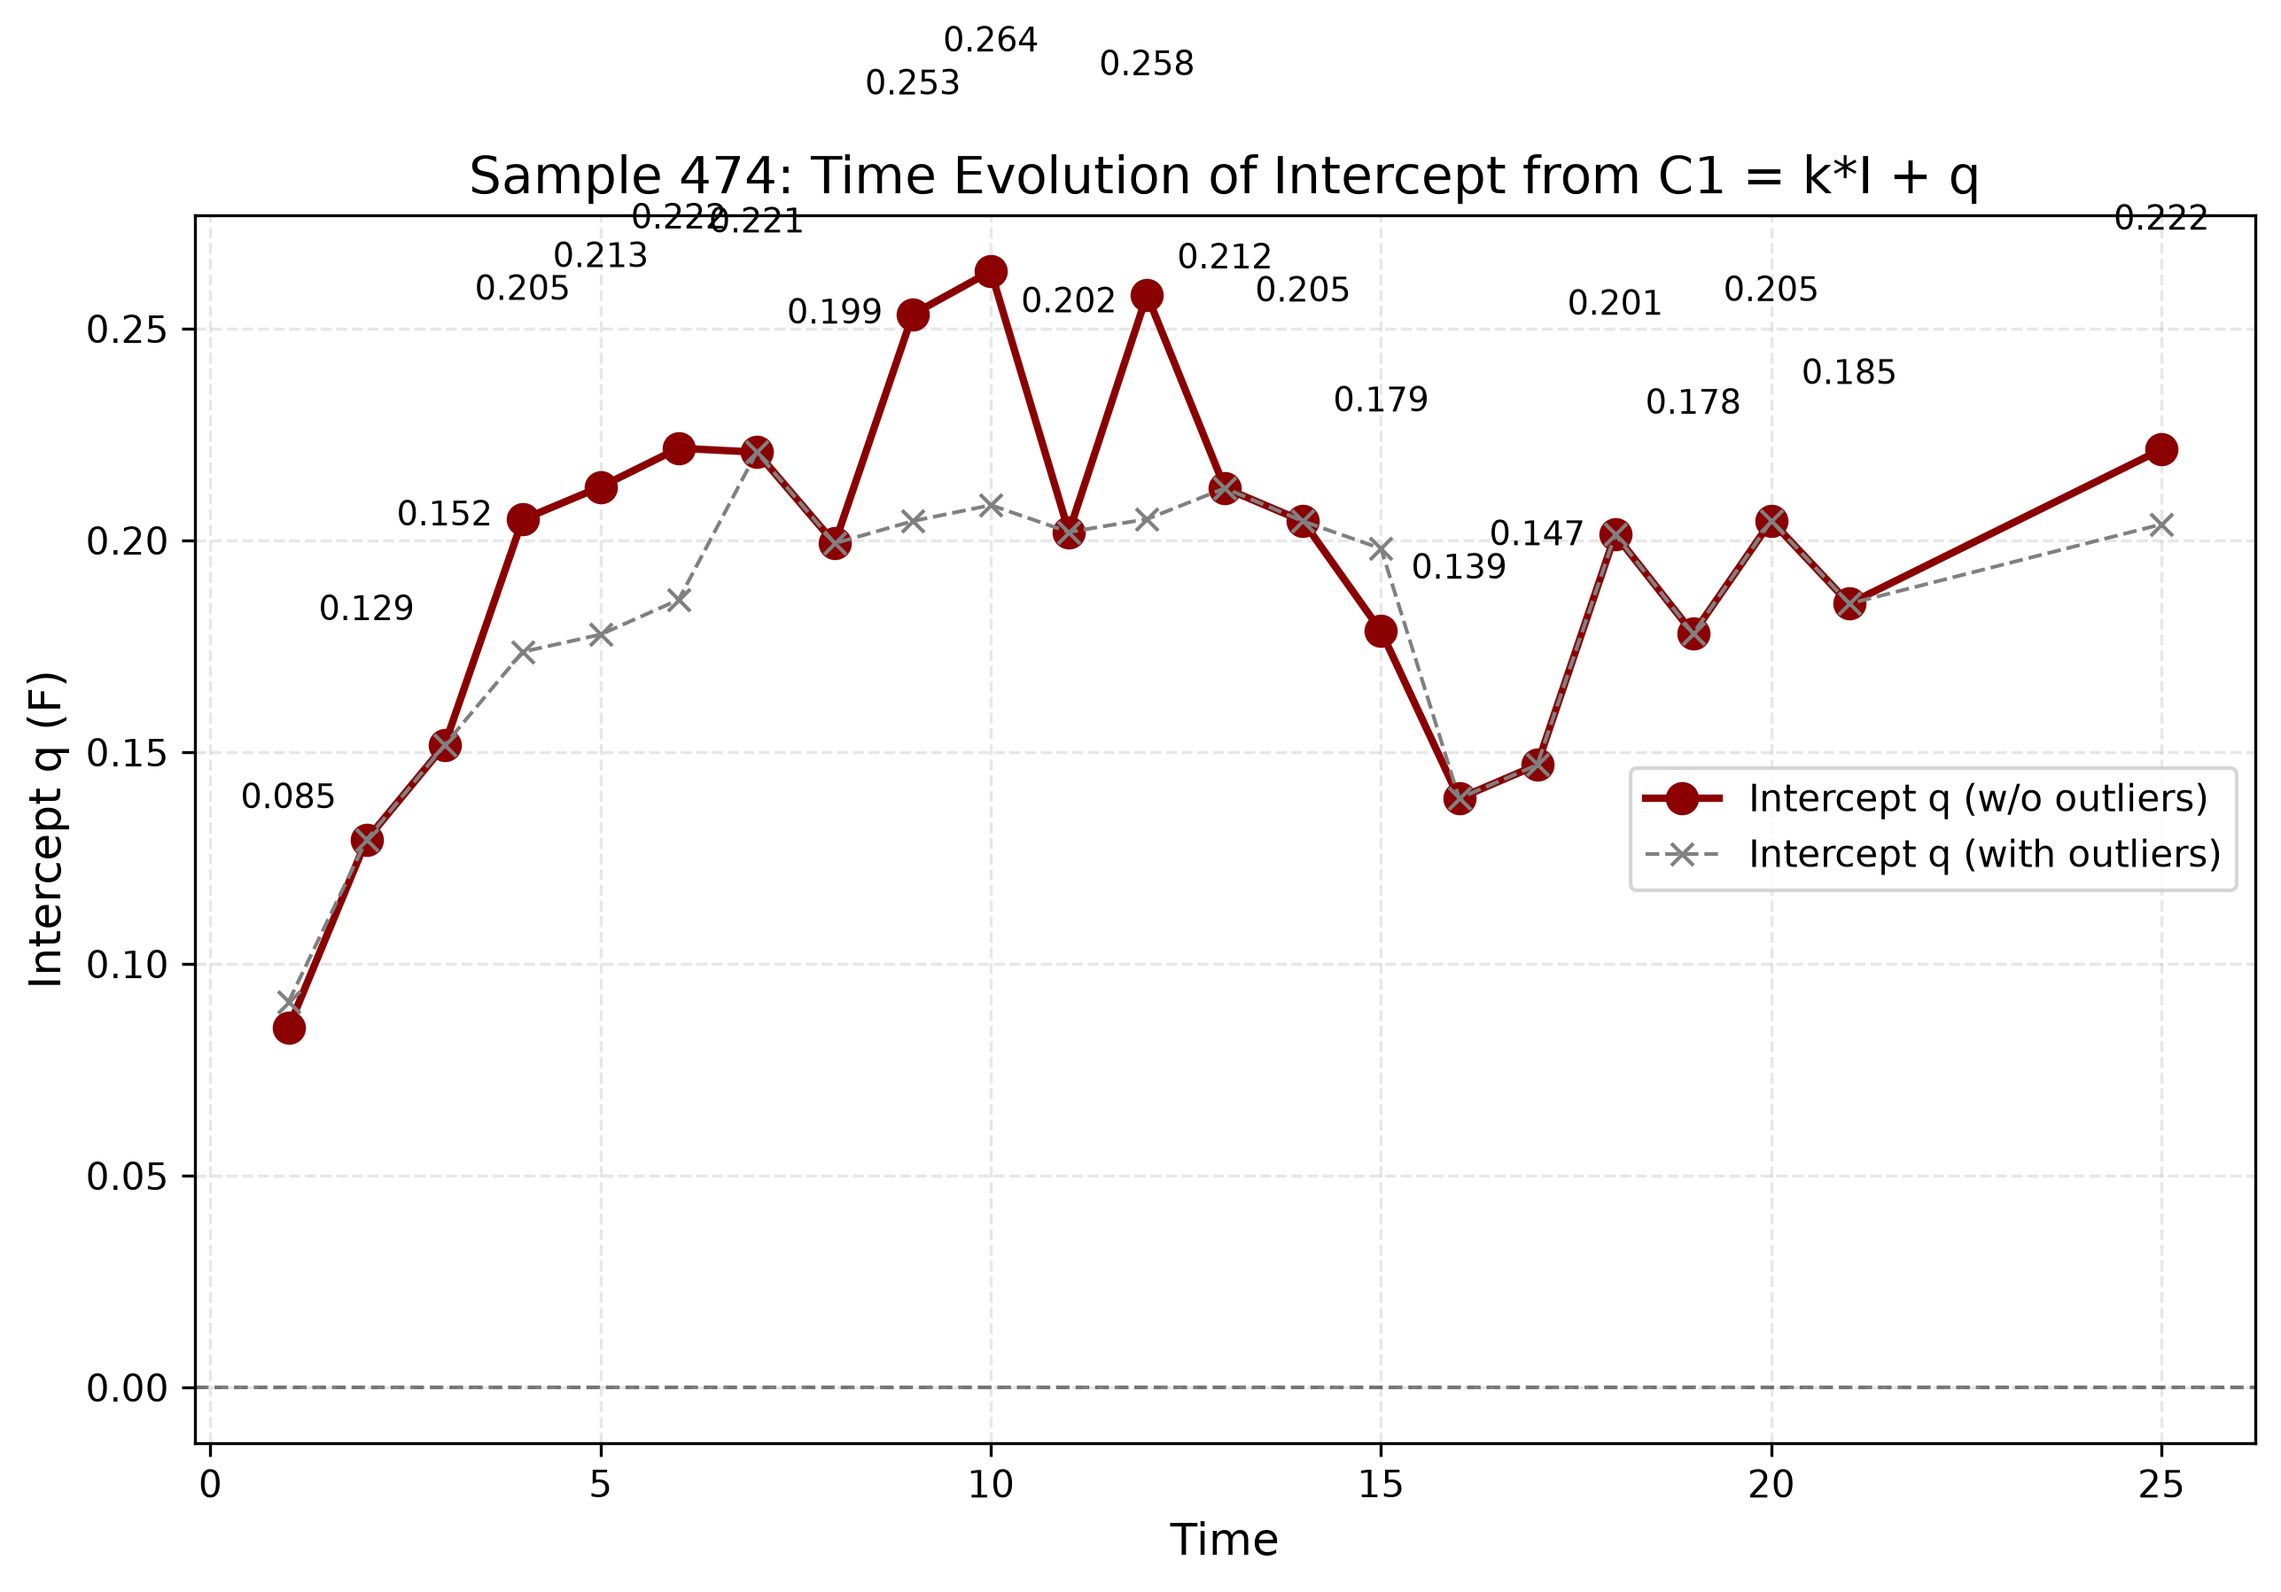
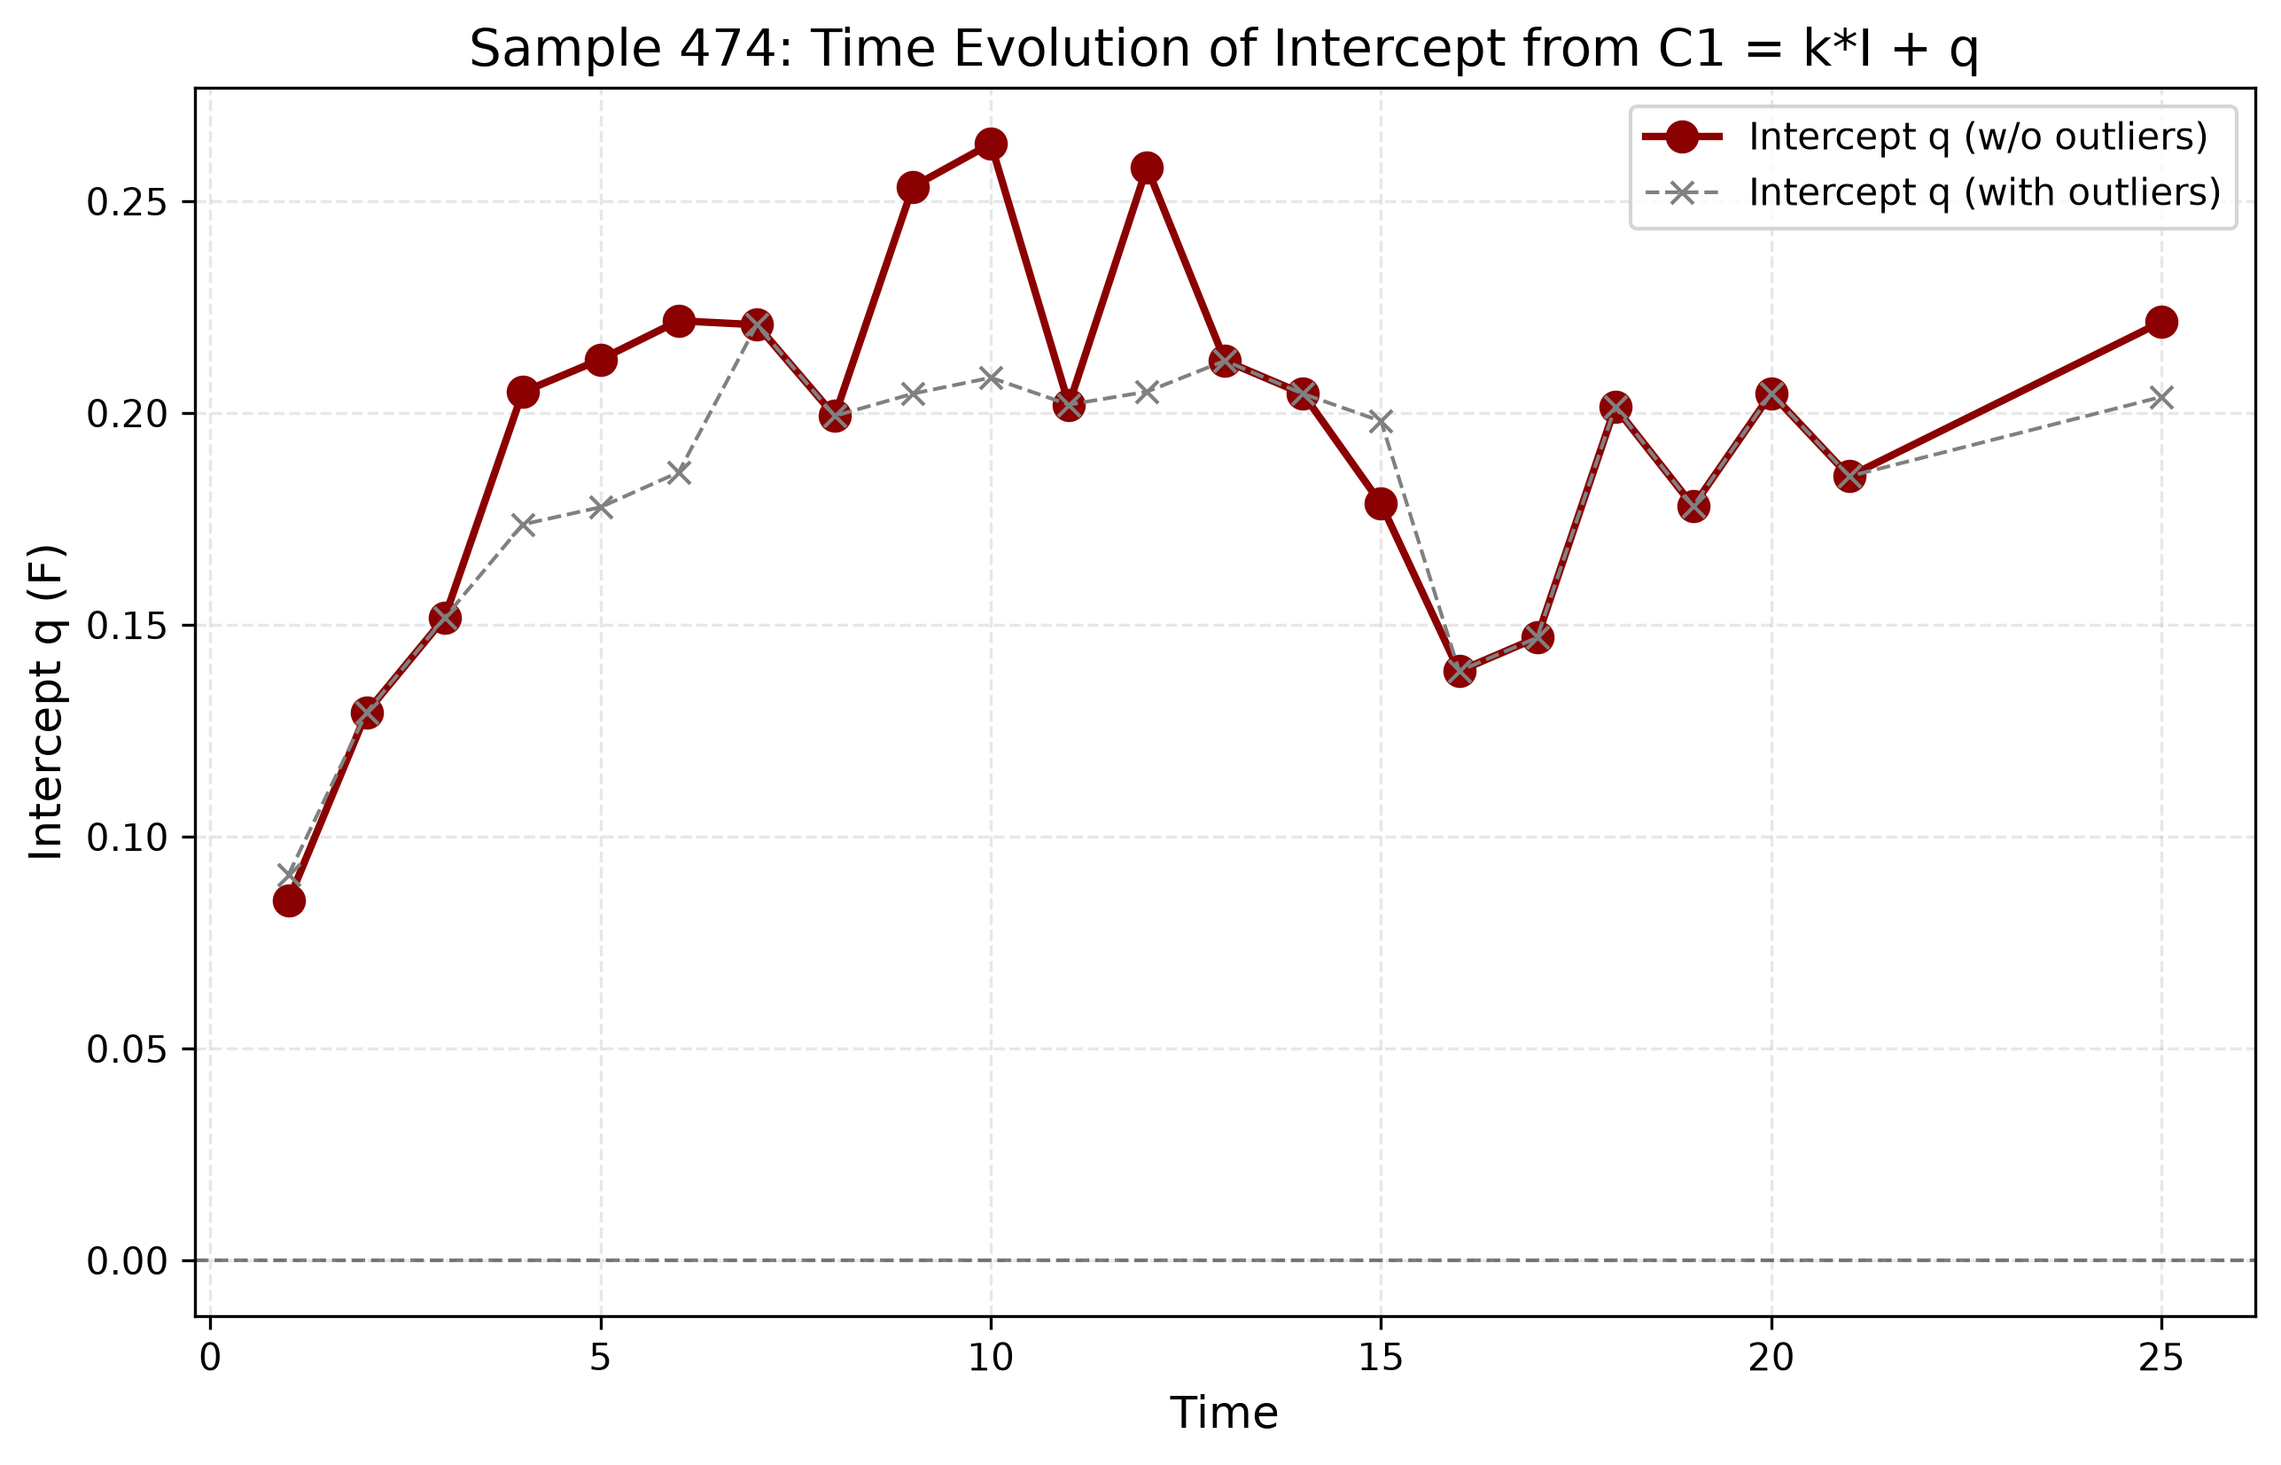
Remove value annotations from all time evolution graphs
- Tafel analysis: Removed tafel_slope annotations from time evolution plot
- C1 analysis: Removed q and k annotations from time evolution plots
- R0 analysis: Already had annotations removed in previous commit
- All analysis results unchanged, only plot aesthetics improved

Closes #remove-all-annotations

diff --git a/AEMs/c1_linear_fit_analysis.py b/AEMs/c1_linear_fit_analysis.py
@@ -319,12 +319,7 @@ def analyze_c1_linear_sample(csv_path, sample_id,
     # Add horizontal line at q=0
     ax.axhline(y=0, color='black', linestyle='--', linewidth=1, alpha=0.5)
     
-    # Annotate each point with its q value
-    for i, row in results_df.iterrows():
-        ax.annotate(f"{row['q']:.3f}",
-                    xy=(row['time'], row['q']),
-                    xytext=(row['time'], row['q'] + (0.05 if row['q'] >= 0 else -0.08)),
-                    ha='center', va='bottom' if row['q'] >= 0 else 'top', fontsize=9)
+    # Removed value annotations as requested
     
     ax.set_xlabel('Time', fontsize=12)
     ax.set_ylabel('Intercept q (F)', fontsize=12)
@@ -352,11 +347,7 @@ def analyze_c1_linear_sample(csv_path, sample_id,
     
     ax.axhline(y=0, color='black', linestyle='--', linewidth=1, alpha=0.5)
     
-    for i, row in results_df.iterrows():
-        ax.annotate(f"{row['k']:.2e}",
-                    xy=(row['time'], row['k']),
-                    xytext=(row['time'], row['k'] + (abs(row['k'])*0.1 if row['k'] != 0 else 0.0001)),
-                    ha='center', va='bottom' if row['k'] >= 0 else 'top', fontsize=8)
+    # Removed value annotations as requested
     
     ax.set_xlabel('Time', fontsize=12)
     ax.set_ylabel('Slope k (F/mA)', fontsize=12)

diff --git a/AEMs/tafel_analysis_all_samples.py b/AEMs/tafel_analysis_all_samples.py
@@ -338,12 +338,7 @@ def analyze_tafel_sample(csv_path, sample_id,
     ax.axhline(y=60, color='gray', linestyle=':', alpha=0.5, label='60 mV/dec')
     ax.axhline(y=80, color='gray', linestyle=':', alpha=0.5, label='80 mV/dec')
     
-    # Annotate each point
-    for i, row in results_df.iterrows():
-        ax.annotate(f"{row['tafel_slope']:.1f}",
-                    xy=(row['time'], row['tafel_slope']),
-                    xytext=(row['time'], row['tafel_slope'] + 1),
-                    ha='center', va='bottom', fontsize=9)
+    # Removed value annotations as requested
     
     ax.set_xlabel('Time', fontsize=12)
     ax.set_ylabel('Tafel Slope (mV/dec)', fontsize=12)
